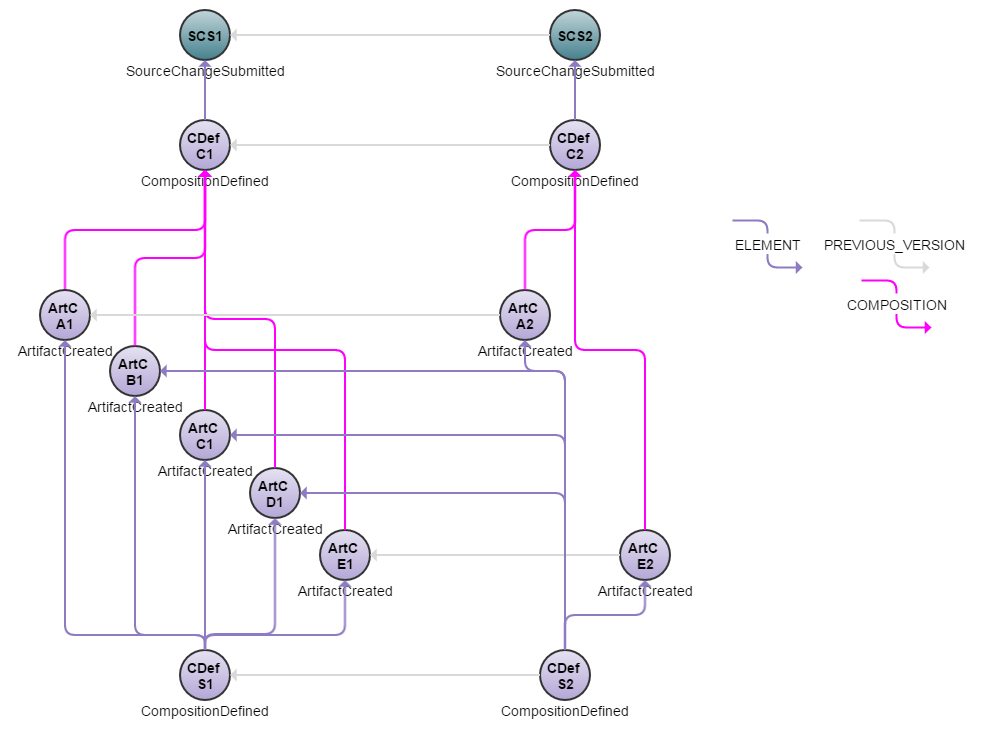
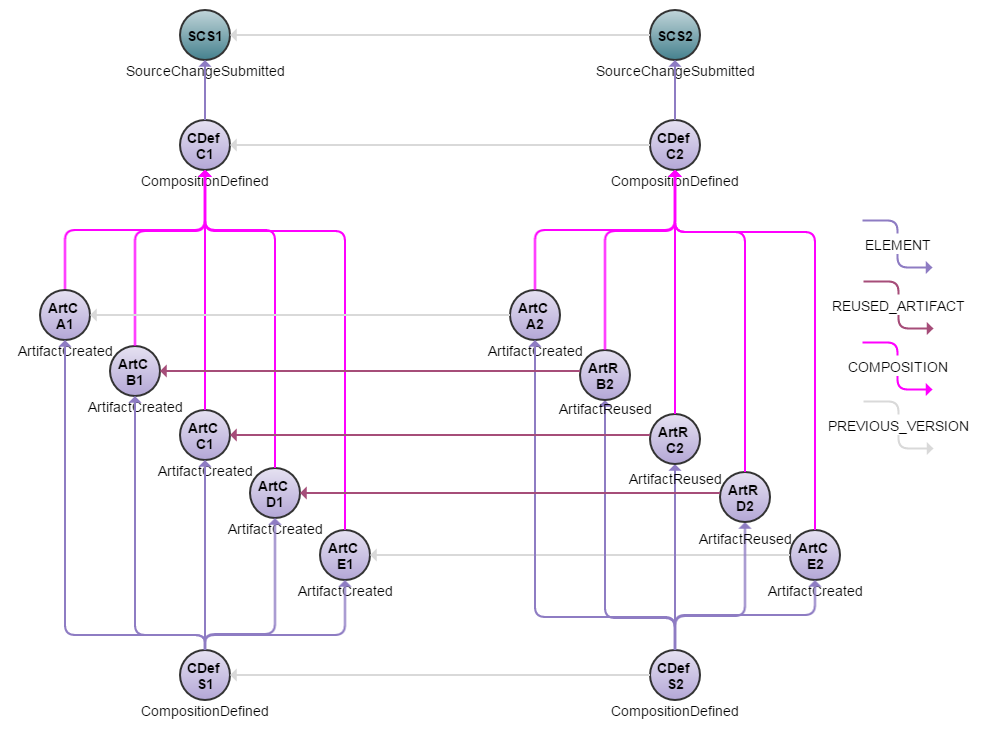
Introduced EiffelArtifactReusedEvent (#91)
As per issue #82.

Also updated the Build Avoidance usage example accordingly.

diff --git a/usage-examples/build-avoidance.md b/usage-examples/build-avoidance.md
@@ -4,9 +4,9 @@ This example discusses how build avoidance mechanisms can be implemented using E
 ## Introduction
 A common use case in continuous integration and delivery systems is avoidance of unnecessary builds: when a number of components are built from the same source repository, one doesn't want to rebuild all of them simply because _something_ in the repo changed - instead one wants to rebuild only the parts that were affected.<sup>[1](#footnote1)</sup>
 
-In a centralized scenario where everything is handled in a single orchestrating job, this is relatively straight forward: analyze the change, trigger the needed builds, wait for them to finish and package the result. In a decentralized continuous integration and delivery system based on descriptive - rather than prescriptive - principles a different approach is needed.
+In a centralized scenario where everything is handled in a single orchestrating job, this is relatively straight forward: analyze the change, trigger the needed builds, wait for them to finish and package the result. In a decentralized continuous integration and delivery system based on descriptive (rather than prescriptive) principles a different approach is needed.
 
-Compared to many other examples, only a very small number of link types is included: __ELEMENT__, __PREVIOUS_VERSION__ and __COMPOSITION__. These three are the types relevant to the example; other link types are of course legal and feasible, but not included here. 
+Compared to many other examples, only a very small number of link types is included: __ELEMENT__, __PREVIOUS_VERSION__, __REUSED_ARTIFACT__ and __COMPOSITION__. These four are the types relevant to the example; other link types are of course legal and feasible, but not included here. 
 
 A JSON array of all events used in this example can be found [here](../examples/flows/build-avoidance/events.json).
 
@@ -26,48 +26,25 @@ The [EiffelArtifactCreatedEvents](../eiffel-vocabulary/EiffelArtifactCreatedEven
 ### ArtCA2, ArtCE2
 The [EiffelArtifactCreatedEvents](../eiffel-vocabulary/EiffelArtifactCreatedEvent.md) representing the two artifacts built from __CDefC2__. Again, each component is built independently. In this case, artifacts __A__ and __E__ are rebuilt.
 
+### ArtRB2, ArtRC2, ArtRD2
+The [EiffelArtifactReusedEvents](../eiffel-vocabulary/EiffelArtifactReusedEvent.md) declaring that components __B__, __C__ and __D__ were in fact not rebuilt for composition __CDefC2__, but that an already existing artifact is logically equivalent and therefore reused. These events use two links to declare this: __COMPOSITION__ and __REUSED_ARTIFACT__.
+
 ### CDefS1, CDefS2
 There are the [EiffelCompositionDefinedEvents](../eiffel-vocabulary/EiffelCompositionDefinedEvent.md) defining the larger system composed of components __A__, __B__, __C__, __D__ and __E__: whenever all components required to be rebuilt for a given source change are available, a new system composition is emitted.
 
-If one expects everything to be rebuilt this is trivial; one simply waits until all component artifacts (__ArtCA1__ though __ArtCE1__) to be completed. In this scenario, however, any of the constituent components may be skipped, so how does one determine when to issue a new [EiffelCompositionDefinedEvent](../eiffel-vocabulary/EiffelCompositionDefinedEvent.md) and which component artifacts to include in it?
+## Build Avoidance Solution
+As discussed in the introduction, in a centralized scenario where a single actor controls the entire process end-to-end, arranging this type of build avoidance is trivial. In a distributed and heterogeneous scenario it is more complicated, as one actor can not be assumed to, and indeed should not, know more than its immediate concerns. In other words, the actor defining __CDefS1__ and __CDefS2__ does not know who builds or does not build components __A__, __B__, __C__, __D__ or __E__ or on which basis that decision is made. Conversely, the builders of the components do not presume to know who will be using them: they are ignorant of the system level, and may indeed be included in any number of downstream compositions. How then does one determine when to issue a new [EiffelCompositionDefinedEvent](../eiffel-vocabulary/EiffelCompositionDefinedEvent.md) and which component artifacts to include in it?
 
-There are several approaches to this problem, of which we will discuss two.
+Facing this scenario it is easy to turn to either prescriptive solutions (e.g. __CDefC1__ and __CDefC2__ instructing downstream actors what to do) or convention based solutions (e.g. __B__ is usually wrapped in Activity events, so a set of Activity events without an [EiffelArtifactCreatedEvent](../eiffel-vocabulary/EiffelArtifactCreatedEvent.md) is interpreted as a skipped build). The Eiffel protocol supports this scenario through [EiffelArtifactReusedEvents](../eiffel-vocabulary/EiffelArtifactReusedEvent.md), however.
 
-#### Solution 1
-The first solution is a pragmatic one: let __CDefC1__ and __CDefC2__ determine what needs to be rebuilt, and let all downstream actors rely on that decision. Every Eiffel message allows for additional information to be included in __data.optionalParameters__ objects. By including objects documenting whether a component has been affected by the change, all logic determining what to build can be kept in one place. To exemplify, __CDefC2__ may include the following:
+Whenever a component builder creates a new artifact it issues an [EiffelArtifactCreatedEvent](../eiffel-vocabulary/EiffelArtifactCreatedEvent.md), but when it decides _not_ to it instead issues an [EiffelArtifactReusedEvent](../eiffel-vocabulary/EiffelArtifactReusedEvent.md). This allows the system level to follow a single very simple rule: whenever a relevant [EiffelCompositionDefinedEvent](../eiffel-vocabulary/EiffelCompositionDefinedEvent.md) has been linked to by either an [EiffelArtifactCreatedEvent](../eiffel-vocabulary/EiffelArtifactCreatedEvent.md) or an [EiffelArtifactReusedEvents](../eiffel-vocabulary/EiffelArtifactReusedEvent.md) for each component, define a new system level composition.
 
-    "data": {
-      "optionalParameters": [
-        {
-          "name": "aIsAffected",
-          "value": "true"
-        },
-        {
-          "name": "bIsAffected",
-          "value": "false"
-        },
-        {
-          "name": "cIsAffected",
-          "value": "false"
-        }
-        ...
-      ]
-    }
+### A Note on Link Traversal
+If one wishes to find changes that were included in a given system revision in this scenario, there are two options which produce different results.
 
-Using this information each component build activity can decide whether to rebuild or not, and the issuer of __CDefC1__ and __CDefC2__ is able to simply wait until all affected components are available.
-    
-It is recommended to be very conservative with use of __data.optionalParameters__, however, as one can easily go overboard with it. More than once have teams used it to throw everything including the kitchen sink into events, ending up with humongous, fragile data structures that make no sense to anyone external to their own team. In this case it is justified, however, for two reasons:
-1. The scope of the information is local: it is only used to inform the behavior of nearby downstream activities.
-2. Traceability is still secured via standardized Eiffel links, ensuring that external stakeholders can still trace which components actually were rebuilt and what was changed from one version to the next: it's only _in situ_ that the extra __data.optionalParameters__ information is relevant.
+If one is only interested in what is new in the given system revision (e.g. finding out which issues have been addressed since the previous version) one can follow __ELEMENT__ and __COMPOSITION__ links to any source changes.
 
-Note that the name of the optional parameters are "aIsAffected", "bIsAffected" et cetera, rather than e.g. "aNeedsToBeRebuilt". This is a minor point of little practical significance, but rather a gesture of adhering to the principle of descriptive events: it is not __CDefC2__'s job to prescribe the actions of downstream agents, but to provide them the information they need to make educated decisions.
-
-#### Solution 2
-The second solution does not make use of __data.optionalParameters__. Instead each component build activity determines whether to rebuild by following the __PREVIOUS_VERSION__ link from __CDefC2__ to __CDefC1__ and comparing their respective [EiffelSourceChangeSubmittedEvents](../eiffel-vocabulary/EiffelSourceChangeSubmittedEvent.md).
-
-__CDefS1__ and __CdefS2__ similarly compare the changes in order to determine which component artifacts to include in the new composition, and consequently which artifacts to wait for.
-
-This approach minimizes redundancy of information in Eiffel events and does not introduce any non-standardized concepts, instead relying on the intelligent and correct behavior of each actor. Its weakness, however, is that the same decision of whether to rebuild a component must be taken by multiple agents, and if they do not come to the same conclusion the system composition (__CDefS2__) will either never be defined, waiting indefinitely for artifacts that will never be built, or it will be defined too early, omitting unexpected artifacts.
+If instead one wants to find all source revisions included in the system revision, regardless of whether they are new or old, one also includes any __REUSED_ARTIFACT__ links in the query.
 
 &nbsp;
 &nbsp;

diff --git a/eiffel-syntax-and-usage/the-links-object.md b/eiffel-syntax-and-usage/the-links-object.md
@@ -67,11 +67,11 @@ __Multiple allowed:__ Yes
 __Description:__ Identifies a latest previous version (there may be more than one in case of merges) of the engineering artifact the event represents, e.g. the previous version of the artifact, the previous version of the composition etc. The target event type SHALL be the same as the source event type.
 
 ### COMPOSITION
-__Required in:__ None  
+__Required in:__ [EiffelArtifactReusedEvent](../eiffel-vocabulary/EiffelArtifactReusedEvent.md)  
 __Optional in:__ [EiffelArtifactCreatedEvent](../eiffel-vocabulary/EiffelArtifactCreatedEvent.md)  
 __Legal targets:__ [EiffelCompositionDefinedEvent](../eiffel-vocabulary/EiffelCompositionDefinedEvent.md)  
 __Multiple allowed:__ No  
-__Description:__ Identifies the composition from which an artifact was built.
+__Description:__ Identifies the composition from which an artifact declared by [EiffelArtifactCreatedEvent](../eiffel-vocabulary/EiffelArtifactCreatedEvent.md) was built, or the composition for which an already existing artifact is declared reused by [EiffelArtifactReusedEvent](../eiffel-vocabulary/EiffelArtifactReusedEvent.md).
 
 ### ENVIRONMENT
 __Required in:__ None  
@@ -172,3 +172,10 @@ __Optional in:__ [EiffelConfigurationAppliedEvent](../eiffel-vocabulary/EiffelCo
 __Legal targets:__ [EiffelSourceChangeSubmittedEvent](../eiffel-vocabulary/EiffelSourceChangeSubmittedEvent.md)  
 __Multiple allowed:__ No  
 __Description:__ Used to identify the configuration that has been applied to an item.
+
+### REUSED_ARTIFACT
+__Required in:__ [EiffelArtifactReusedEvent](../eiffel-vocabulary/EiffelArtifactReusedEvent.md)    
+__Optional in:__ None  
+__Legal targets:__ [EiffelArtifactCreatedEvent](../eiffel-vocabulary/EiffelArtifactCreatedEvent.md)  
+__Multiple allowed:__ No  
+__Description:__ This link identifies the [EiffelArtifactCreatedEvent](../eiffel-vocabulary/EiffelArtifactCreatedEvent.md) that is reused; in other words, the artifact that is not rebuilt for a given composition.

diff --git a/eiffel-vocabulary/EiffelArtifactReusedEvent.md b/eiffel-vocabulary/EiffelArtifactReusedEvent.md
@@ -1,0 +1,14 @@
+# EiffelArtifactReusedEvent
+The EiffelArtifactReusedEvent declares that an identified [EiffelArtifactCreatedEvent](./EiffelArtifactCreatedEvent.md) has been _reused_ for an identified [EiffelCompositionDefinedEvent](./EiffelCompositionDefinedEvent.md). This means that it is logically equivalent to an artifact that would have been built from that composition, and can be used for build avoidance (see the [Build Avoidance Usage Example](../usage-examples/build-avoidance.md) for more information).
+
+The event has no data members, but solely relies on its two required link types __REUSED_ARTIFACT__ and __COMPOSITION__ (see [The Links Object](../eiffel-syntax-and-usage/the-links-object.md)).
+
+## Data Members
+
+## Version History
+| Version   | Introducing Commit |
+| --------- | ------------------ |
+| 1.0.0     | _Current version_  |
+
+## Examples
+* [Simple example](../examples/events/EiffelArtifactReusedEvent/simple.json)

diff --git a/README.md b/README.md
@@ -23,6 +23,7 @@ __IMPORTANT NOTICE:__ The contents of this repository currectly reflect a __DRAF
    1. [EiffelActivityFinishedEvent](./eiffel-vocabulary/EiffelActivityFinishedEvent.md)
    1. [EiffelArtifactCreatedEvent](./eiffel-vocabulary/EiffelArtifactCreatedEvent.md)
    1. [EiffelArtifactPublishedEvent](./eiffel-vocabulary/EiffelArtifactPublishedEvent.md)
+   1. [EiffelArtifactReusedEvent](./eiffel-vocabulary/EiffelArtifactReusedEvent.md)
    1. [EiffelConfidenceLevelModifiedEvent](./eiffel-vocabulary/EiffelConfidenceLevelModifiedEvent.md)
    1. [EiffelEnvironmentDefinedEvent](./eiffel-vocabulary/EiffelEnvironmentDefinedEvent.md)
    1. [EiffelCompositionDefinedEvent](./eiffel-vocabulary/EiffelCompositionDefinedEvent.md)
